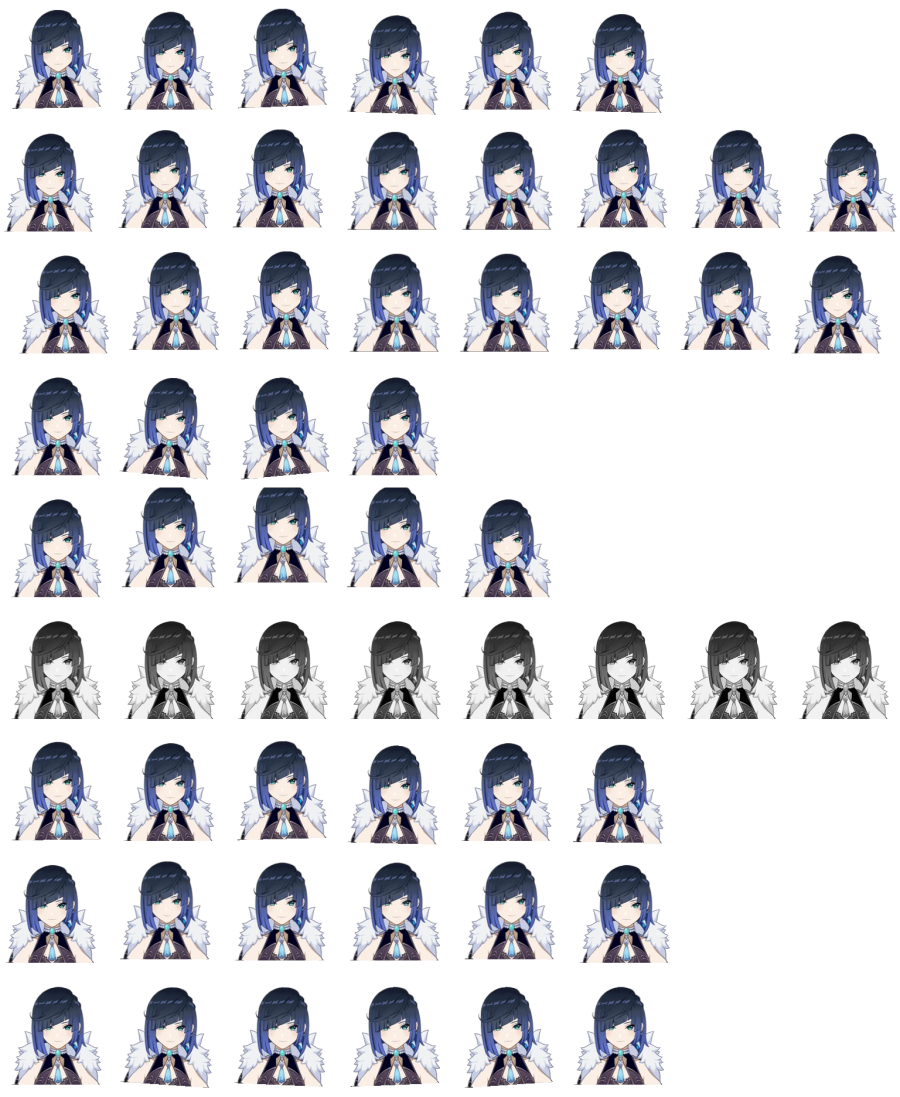
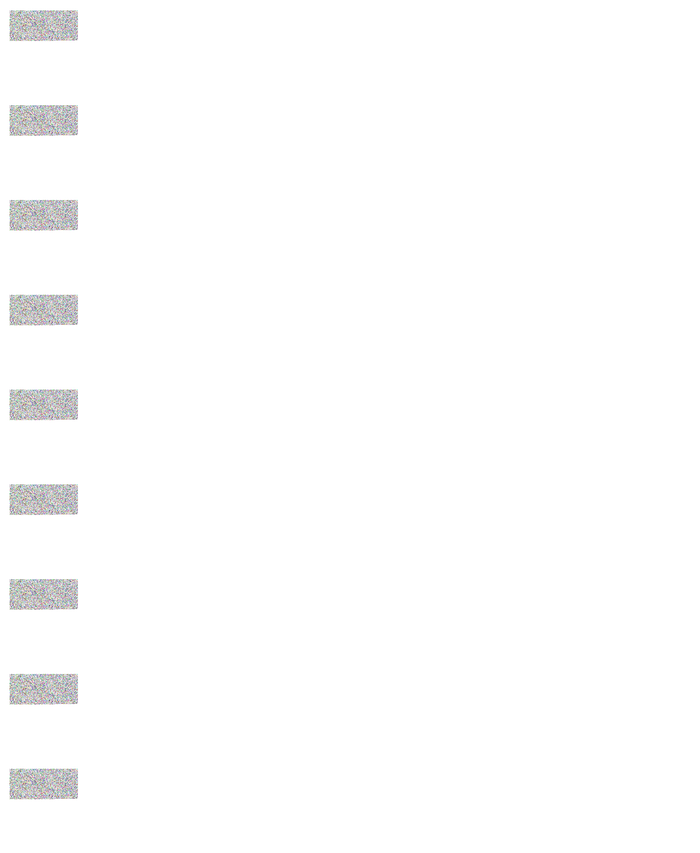
yelan: make it a static single-pose portrait instead of animated wobble

diff --git a/README.md b/README.md
@@ -10,7 +10,7 @@ A collection of pets for the **dsh-pet** plugin in the DeepSeek Harness Web GUI,
 | 流萤花嫁 | `firefly-bride` | ![preview](pets/firefly-bride/previews/overview.png) | [RagnarokChan/firefly-codex-pets](https://github.com/RagnarokChan/firefly-codex-pets) | Firefly wedding variant |
 | 流萤 chibi | `liuying` | ![preview](pets/liuying/previews/overview.png) | [Ruiwang66/codexpetFirefly](https://github.com/Ruiwang66/codexpetFirefly) | AI chibi Firefly |
 | 派蒙 | `paimon` | ![preview](pets/paimon/previews/overview.png) | [awesome-codex-pet](https://github.com/legeling/awesome-codex-pet) (`paimon--lingxiaotian`) | Multi-state community Paimon (real per-state poses) |
-| 夜兰 | `yelan` | ![preview](pets/yelan/previews/overview.png) | Programmatic (this repo) | Genshin Yelan generated from a transparent portrait |
+| 夜兰 | `yelan` | ![preview](pets/yelan/previews/overview.png) | Programmatic (this repo) | Genshin Yelan — static single-pose portrait (no animation) |
 
 ## Install
 
